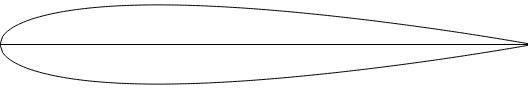
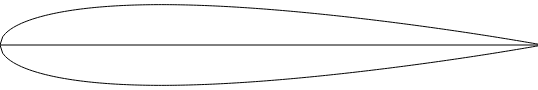
initial

diff --git a/graph.js b/graph.js
@@ -1,5 +1,7 @@
+//run with `electro graph.js T`
+
 var naca = require('./')
-var t = 0.15
+var t = +process.argv[2] || 0.15
 
 var canvas = document.createElement('canvas')
 
@@ -27,7 +29,7 @@ function draw(side) {
   ctx.beginPath()
   ctx.moveTo(0, mid)
 
-  var t = 0.15, n = 200, max = 0, intersect = 0
+  var n = 200, max = 0, intersect = 0
   for(var i = 0; i <= n; i++) {
     var x = i/n
     var y = naca(t, x)
@@ -43,9 +45,7 @@ function draw(side) {
 }
 draw(1)
 draw(-1)
+
 var data = canvas.toDataURL('image/png')
 require('fs').writeFileSync('output.png', Buffer.from(data.substring(data.indexOf(',')), 'base64'))
-
-
-
 

diff --git a/README.md b/README.md
@@ -1,8 +1,24 @@
 # naca
 
-![image](
+generate a [symmetric naca airfoil](http://www.boat-links.com/foils.html)
+of interest to boat or aircraft designers.
 
+example output: the NACA0015 foil.
+![output.png](./output.ping)
+
+## example
+
+output a table of x, y
+
+```
+var naca = require('naca')
+var t = 0.15 //ratio of thickest part to centerline.
+for(var i = 0; i <= 100;i ++)
+  console.log(i/100, naca(t, i/100))
+```
 
 ## License
 
 MIT
+
+
